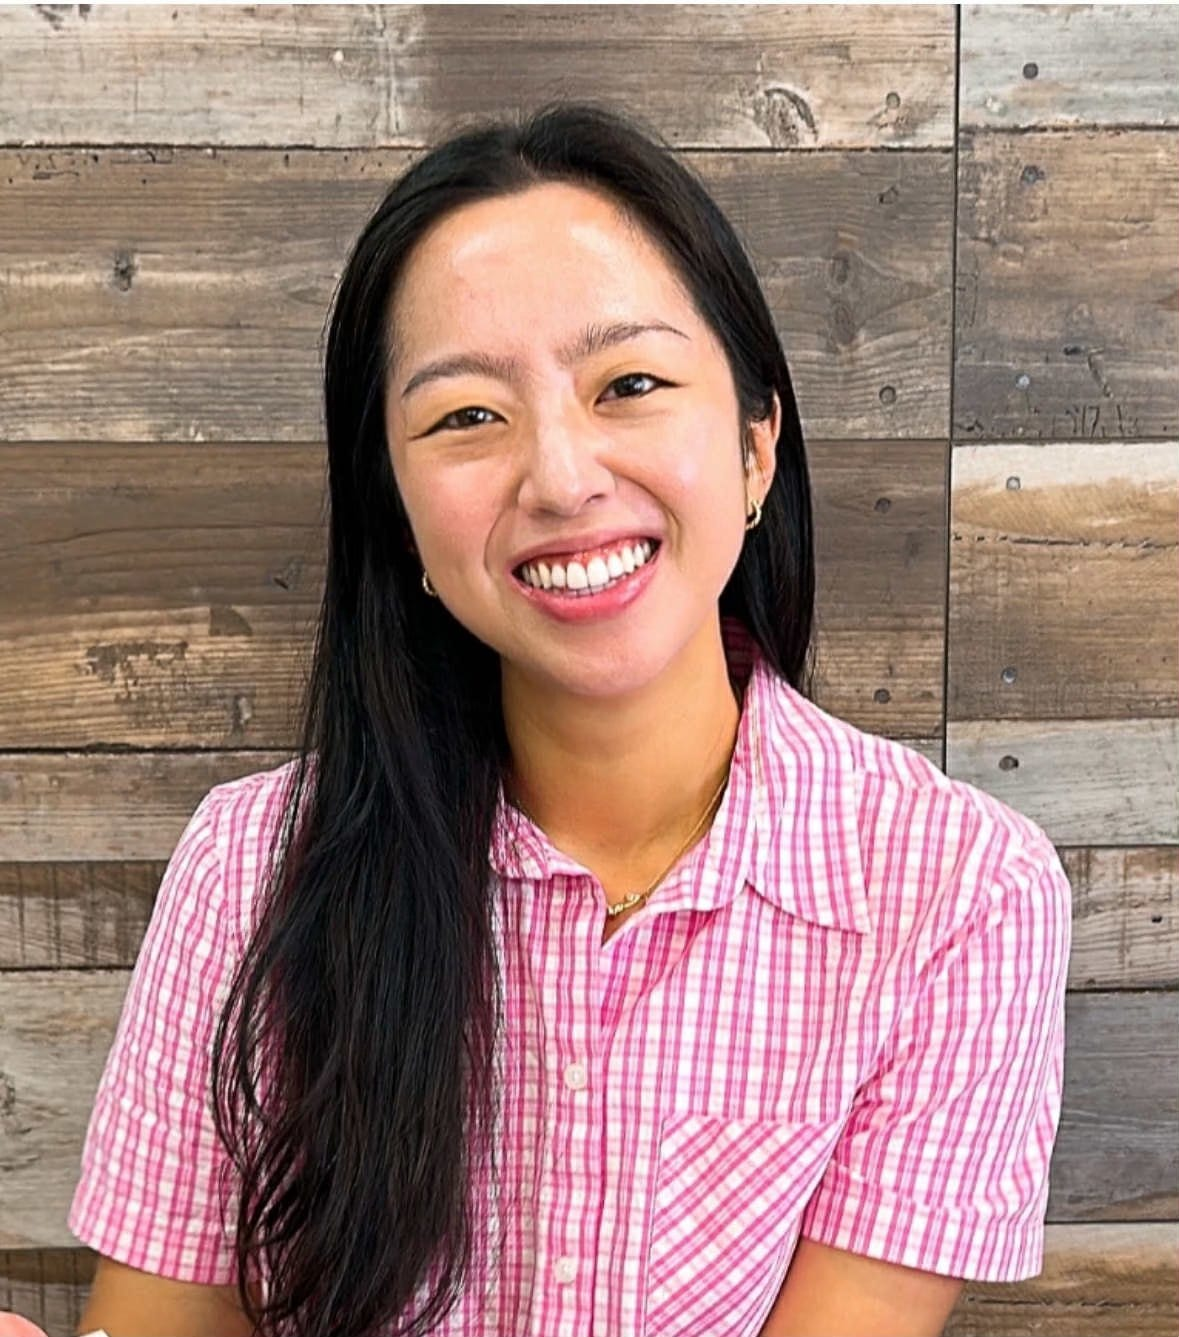
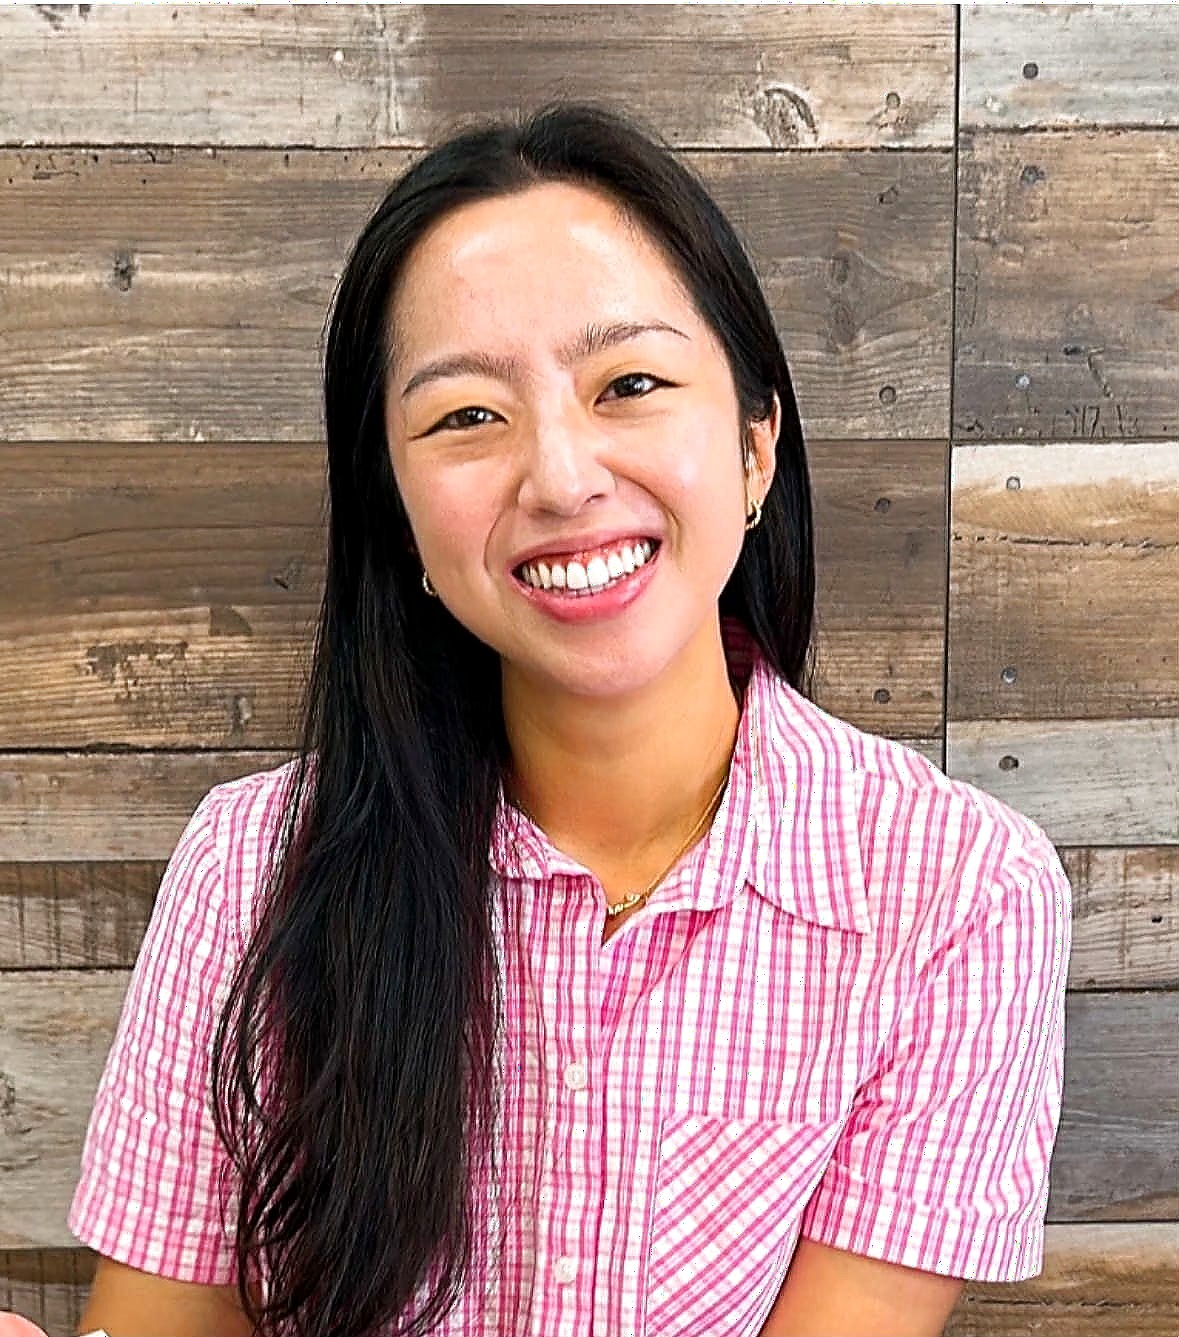
Enhance both photos: sharpen, boost contrast + saturation, quality 95, slightly smaller layout

diff --git a/app/globals.css b/app/globals.css
@@ -447,7 +447,7 @@ nav {
 .hero-visual {
   position: relative;
   aspect-ratio: 4 / 5;
-  max-width: 480px;
+  max-width: 400px;
   width: 100%;
   margin-top: 2rem;
   overflow: hidden;
@@ -473,7 +473,8 @@ nav {
   height: 100%;
   object-fit: cover;
   display: block;
-  filter: saturate(0.95);
+  filter: saturate(1.08) contrast(1.05) brightness(1.02);
+  image-rendering: -webkit-optimize-contrast;
 }
 
 /* SECTIONS */
@@ -510,7 +511,7 @@ section {
 }
 .about-grid {
   display: grid;
-  grid-template-columns: 0.85fr 1.15fr;
+  grid-template-columns: 0.72fr 1.28fr;
   gap: 5rem;
   max-width: 1200px;
   margin: 0 auto;
@@ -543,7 +544,8 @@ section {
   height: 100%;
   object-fit: cover;
   display: block;
-  filter: saturate(1.02);
+  filter: saturate(1.08) contrast(1.05) brightness(1.02);
+  image-rendering: -webkit-optimize-contrast;
 }
 .portrait-caption {
   position: absolute;

diff --git a/components/About.tsx b/components/About.tsx
@@ -11,7 +11,8 @@ export default function About() {
               alt="Josephine, private tutor in Irvine"
               fill
               className="portrait"
-              sizes="(max-width: 900px) 320px, 40vw"
+              sizes="(max-width: 900px) 280px, 35vw"
+              quality={95}
               priority
             />
           </div>

diff --git a/components/Hero.tsx b/components/Hero.tsx
@@ -35,7 +35,8 @@ export default function Hero() {
           src="/josephine-photo.jpg"
           alt="Josephine, private tutor in Irvine"
           fill
-          sizes="(max-width: 1100px) 100vw, 440px"
+          sizes="(max-width: 1100px) 100vw, 400px"
+          quality={95}
           priority
         />
       </div>